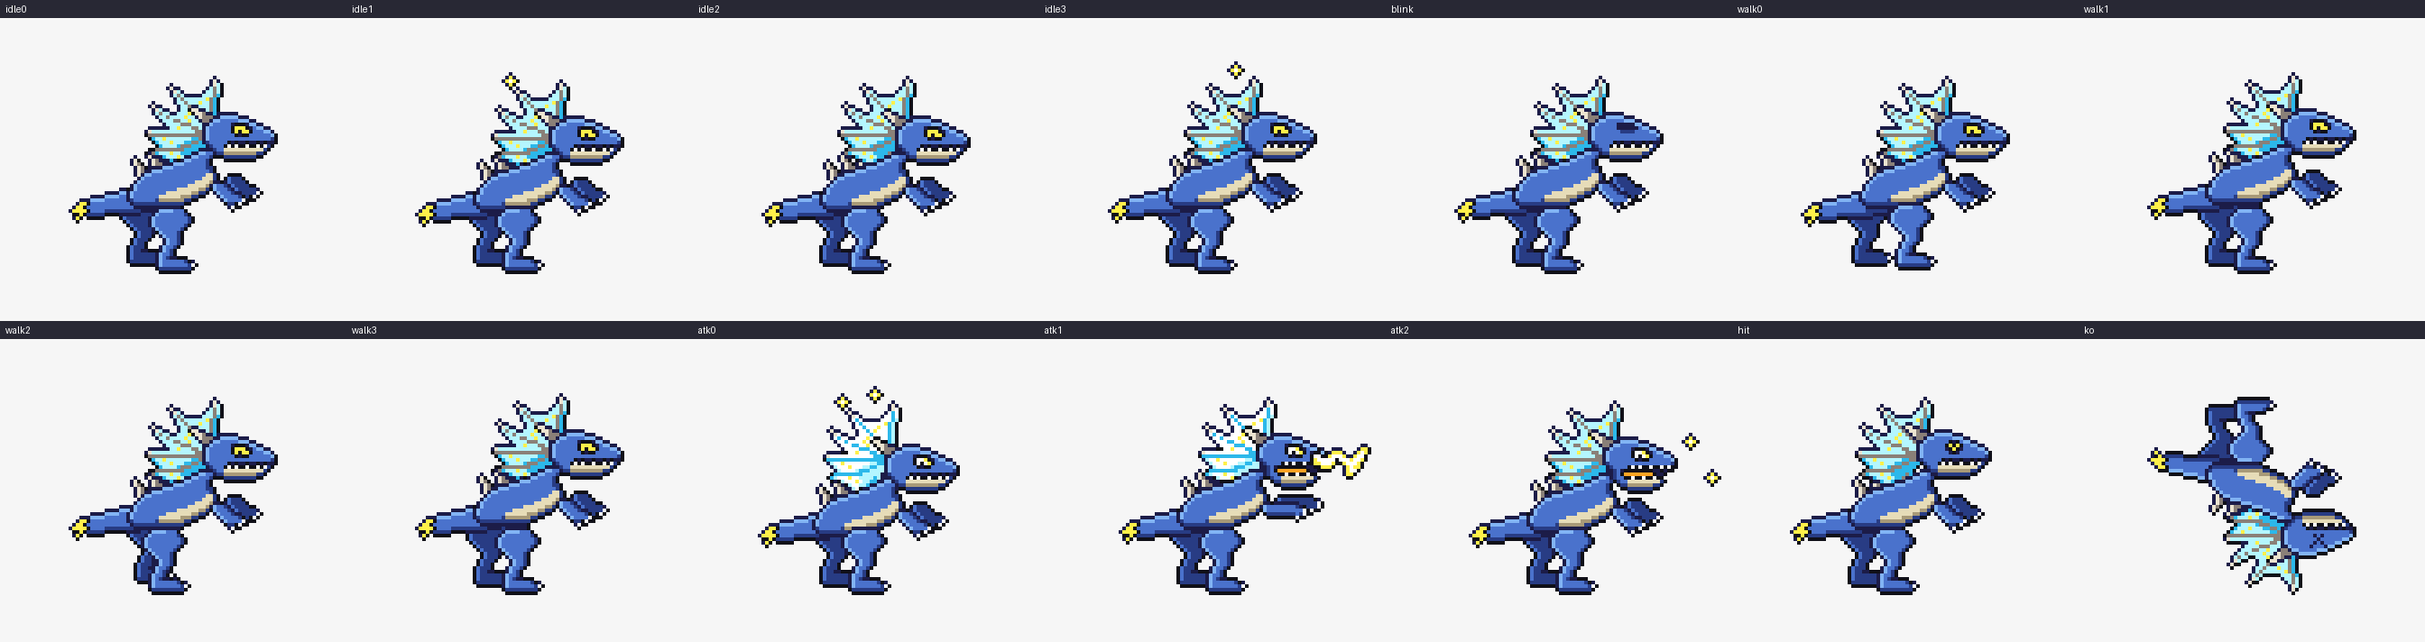
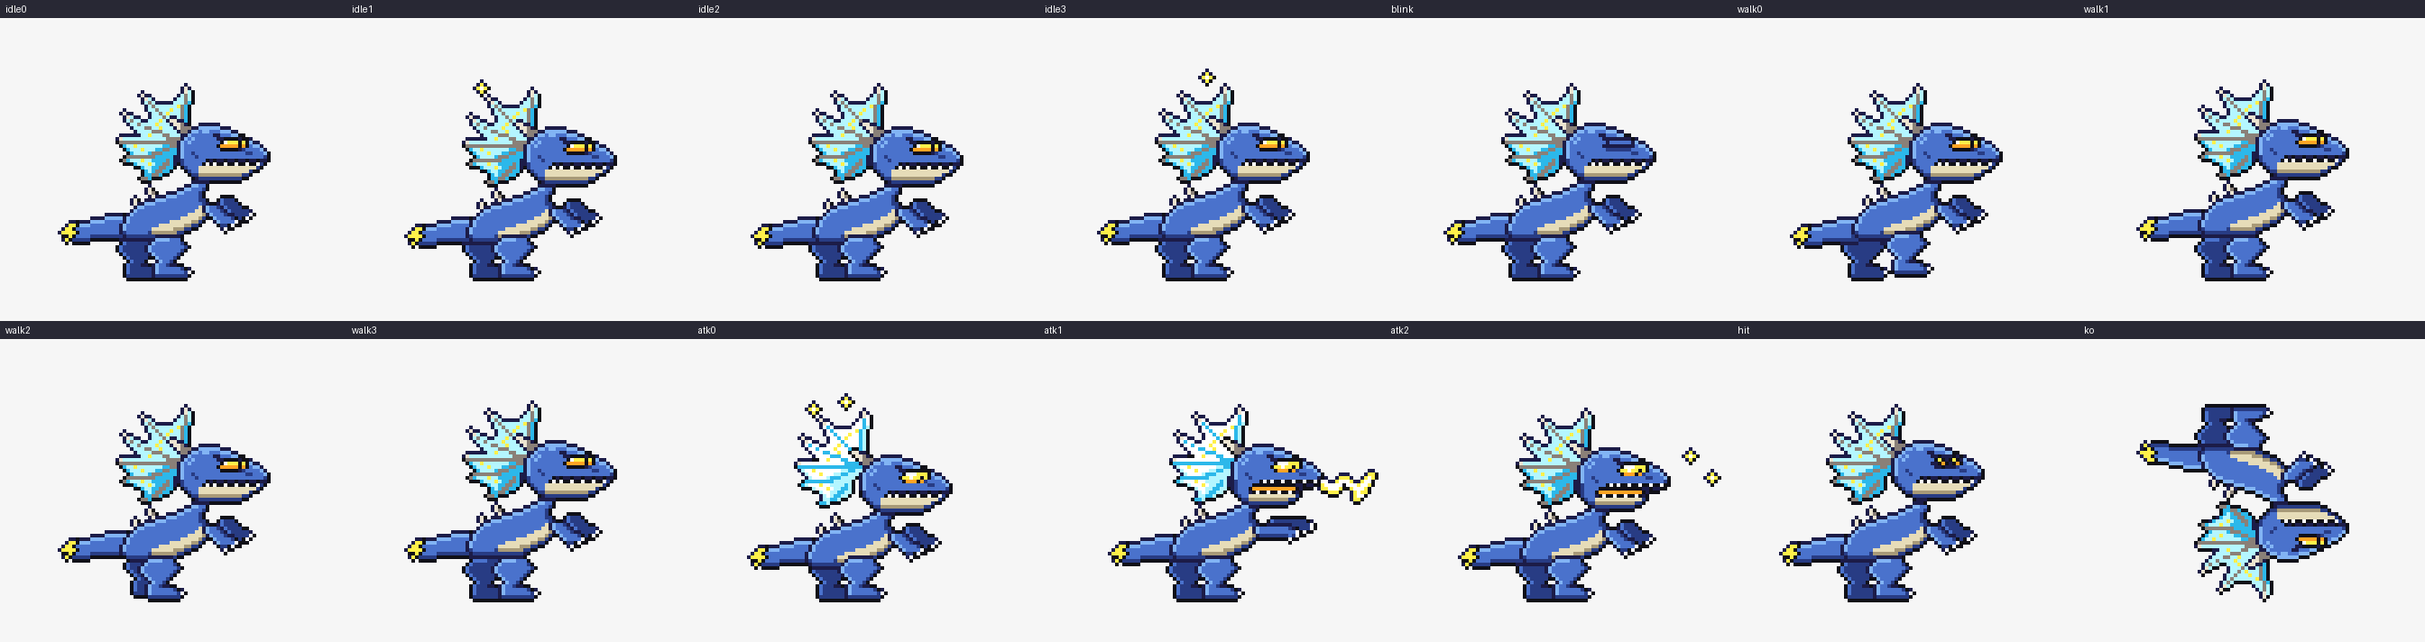
デフォルメ化・多色の 目・手足の つなぎ直し（ツノヒメ〜ドクエイ 7体）
Claude-Session: https://claude.ai/code/session_01J9mYv3PRYW1GKv9GU2f7rQ

diff --git a/tools/monsters/raierimaki/mon.py b/tools/monsters/raierimaki/mon.py
@@ -1,4 +1,4 @@
-# ライエリマキ（でんき・ドラゴン × エリマキトカゲ）手打ち GBA風
+# ライエリマキ（でんき・ドラゴン × エリマキトカゲ）手打ち GBA風・デフォルメ（2〜3頭身：大きな 頭と えりまき、胴は 小さく、足は 短く 太く）
 from pix import outline
 META = dict(id='raierimaki', name='ライエリマキ', types=['elec', 'dragon'], base='エリマキトカゲ', size='M')
 PAL = {
@@ -21,39 +21,49 @@ def place(parts, W=40, H=40):
                 if c != '.': g[dy + j][dx + i] = c
     return [''.join(r) for r in g]
 
-HEAD = [
-    "....AAAAA..........",
-    "..AABBBBBAAA.......",
-    ".ABBBBBBBBBBAA.....",
-    "ABBBBBBBBBBBBBAA...",
-    "ABBBBBBBBBBBBBBBAA.",
-    "ABBBBBBBBBBBBBBBBBA",
-    "ABBBBBBBBBBBBBBBBBC",
-    "CBBBBBkkkkkkkkkkkkk",
-    ".CBBBkwkwkkwkkwkwC.",
-    "..CBBEEEEEEEEEEEC..",
-    "...CCFFFFFFFFFCC...",
-    ".....CCCCCCCCC.....",
+HEAD_T = [
+    ".....AAAAAA.............",
+    "...AABBBBBBAAA..........",
+    "..ABBBBBBBBBBBAA........",
+    ".ABBBBBBBBBBBBBBAA......",
+    "ABBBBBBBBBBBBBBBBBAA....",
+    "ABBBBBBBBBBBBBBBBBBBAA..",
+    "ABBBBBBBBBBBBBBBBBBBBBA.",
+    "ABBBBBBBBBBBBBBBBBBBBBBA",
+    "ABBBBBBBBBBBBBBBBBBBBBBC",
 ]
-HEAD_OPEN = [
-    "....AAAAA..........",
-    "..AABBBBBAAA.......",
-    ".ABBBBBBBBBBAA.....",
-    "ABBBBBBBBBBBBBAA...",
-    "ABBBBBBBBBBBBBBBAA.",
-    "ABBBBBBBBBBBBBBBBBA",
-    "CBBBBBBBBBBBBBBBBBC",
-    ".CBBBBkwkwkkwkkwkwk",
-    "..CBkkkkkkkkkkkkk..",
-    "..CBkOOOOOOOOk.....",
-    "..CBBkkwkkwkkwk....",
-    "...CBBEEEEEEEEEC...",
-    "....CCFFFFFFFCC....",
-    "......CCCCCCC......",
+HEAD_SHUT = [
+    "CBBBBBBkkkkkkkkkkkkkkkkk",
+    "CBBBBBkwkwkkwkkwkkwkkwC.",
+    ".CBBBEEEEEEEEEEEEEEEEC..",
+    "..CBBEEEEEEEEEEEEEEC....",
+    "...CCFFFFFFFFFFFFCC.....",
+    ".....CCCCCCCCCCCC.......",
 ]
-EYE = ['kkkkk.', 'kYYYkk', 'kYkYYk', '.kkkk.']
-EYE_ALT = {'blink': ['kkkkk.', 'kkkkkk', '.CCCC.', '......'], 'hit': ['.kkk..', 'kYkYk.', 'kkYkk.', '.kkk..'],
-           'atk0|atk1|atk2': ['kkkkk.', 'kwwYkk', 'kwkwYk', '.kkkk.'], 'ko': ['k...k.', '.k.k..', '..k...', '.k.k..']}
+HEAD_GAPE = [
+    "CBBBBBBkwkwkkwkkwkkwkkwk",
+    "CBBBBkkkkkkkkkkkkkkkkk..",
+    "CBBBkOOOOOOOOOOOOk......",
+    "CBBBkkwkkwkkwkkwkk......",
+    ".CBBEEEEEEEEEEEEEC......",
+    "..CCFFFFFFFFFFFCC.......",
+    "....CCCCCCCCCCC.........",
+]
+EYES = {
+    'open':  ['kk........', '.kkkkkkkk.', '..kwYYYkYk', '.kOOOOOkOk', '..kkkkkkk.'],
+    'glow':  ['kk........', '.kkkkkkkk.', '..kwwwYYYk', '.kYYwYYkYk', '..kOOOkOk.'],
+    'blink': ['kk........', '.kkkkkkkk.', '..kBBBBBBk', '.kkkkkkkkk', '..CCCCCC..'],
+    'hit':   ['kk........', '.kkkkkkkk.', '..kYkkkYkk', '.kkkOkkkOk', '..kkkkkkk.'],
+    'ko':    ['..........', '..kYOOYk..', '..kOkkOk..', '..kkOOkk..', '..kOkkOk..'],
+}
+def head(eye='open', gape=False):
+    g = [list(r) for r in HEAD_T + (HEAD_GAPE if gape else HEAD_SHUT)]
+    for j, r in enumerate(EYES[eye]):
+        for i, c in enumerate(r):
+            if c != '.': g[2 + j][9 + i] = c
+    for (x, y) in ((6, 1), (7, 1), (3, 3), (2, 4)): g[y][x] = 'A'
+    for (x, y) in ((3, 7), (4, 8), (17, 6), (18, 7), (19, 7)): g[y][x] = 'C'
+    return outline([''.join(r) for r in g])
 HORN = ['GG......', '.GGH....', '..GHHH..', '...HHHH.', '....HHH.']
 # えりまき：骨の すじ（G/H）の あいだに でんきの 膜（W/V）、いなずまの もよう（Y）
 FRILL = [
@@ -116,17 +126,11 @@ LEG = [
     "..AAAABBB...",
     ".ABBBBBBBC..",
     "ABBBBBBBBBC.",
-    "ABBBBBBBBBC.",
     "ABBBBBBBBC..",
     ".ABBBBBBC...",
     "..ABBBBC....",
-    "...ABBBC....",
-    "....ABBC....",
-    "....ABBC....",
     "...ABBC.....",
-    "...ABC......",
     "..ABBC......",
-    "..ABC.......",
     "..ABBBBBBC..",
     "..ABBBBBBBCw",
     "..CCCCCCCCC.",
@@ -157,29 +161,26 @@ SPARK = ['..k..', '.kYk.', 'kYwYk', '.kYk.', '..k..']
 
 def base():
     return [
-        dict(n='legB', g='legB', x=17, y=38, rows=outline(dk(LEG))),
-        dict(n='armB', g='armB', x=46, y=31, rows=outline(dk(ARM)), alt={'atk1': outline(dk(ARM_STRIKE))}),
-        dict(n='tail', g='tail', x=6, y=35, rows=outline(TAIL)),
-        dict(n='bolt', g='tail', x=3, y=38, rows=outline(BOLT)),
-        dict(n='sp0', g='body', x=20, y=26, rows=outline(SPIKE)),
-        dict(n='sp1', g='body', x=24, y=24, rows=outline(SPIKE)),
-        dict(n='sp2', g='body', x=28, y=22, rows=outline(SPIKE)),
-        dict(n='sp3', g='body', x=32, y=21, rows=outline(SPIKE)),
-        dict(n='frill', g='frill', x=24, y=4, rows=outline(FRILL), alt={'atk0|atk1': outline([r.replace('W', 'w').replace('V', 'W').replace('H', 'V') for r in FRILL])}),
-        dict(n='body', g='body', x=19, y=24, rows=outline(BODY)),
-        dict(n='legA', g='legA', x=25, y=40, rows=outline(LEG)),
-        dict(n='horn', g='head', x=36, y=12, rows=outline(HORN)),
-        dict(n='head', g='head', x=40, y=14, rows=outline(HEAD), alt={'atk1|atk2': outline(HEAD_OPEN)}),
-        dict(n='eye', g='head', x=48, y=17, rows=EYE, alt=EYE_ALT),
-        dict(n='armF', g='armF', x=42, y=33, rows=outline(ARM), alt={'atk1': outline(ARM_STRIKE)}),
+        dict(n='legB', g='legB', x=16, y=48, rows=outline(dk(LEG))),
+        dict(n='armB', g='armB', x=44, y=37, rows=outline(dk(ARM)), alt={'atk1': outline(dk(ARM_STRIKE))}),
+        dict(n='tail', g='tail', x=2, y=42, rows=outline(TAIL)),
+        dict(n='bolt', g='tail', x=0, y=44, rows=outline(BOLT)),
+        dict(n='sp0', g='body', x=20, y=37, rows=outline(SPIKE)),
+        dict(n='sp1', g='body', x=24, y=34, rows=outline(SPIKE)),
+        dict(n='frill', g='frill', x=16, y=6, rows=outline(FRILL), alt={'atk0|atk1': outline([r.replace('W', 'w').replace('V', 'W').replace('H', 'V') for r in FRILL])}),
+        dict(n='body', g='body', x=17, y=33, rows=outline(BODY)),
+        dict(n='legA', g='legA', x=24, y=48, rows=outline(LEG)),
+        dict(n='horn', g='head', x=30, y=15, rows=outline(HORN)),
+        dict(n='head', g='head', x=33, y=17, rows=head(), alt={'blink': head('blink'), 'hit': head('hit'), 'atk0': head('glow'), 'atk1|atk2': head('glow', True)}),
+        dict(n='armF', g='armF', x=40, y=39, rows=outline(ARM), alt={'atk1': outline(ARM_STRIKE)}),
     ]
 def fx():
     return [
-        dict(n='zap', g='root', x=56, y=17, rows=LIGHTNING, only='atk1'),
-        dict(n='sp1', g='root', x=62, y=14, rows=SPARK, only='atk2'),
+        dict(n='zap', g='root', x=58, y=24, rows=LIGHTNING, only='atk1'),
+        dict(n='sp1', g='root', x=62, y=18, rows=SPARK, only='atk2'),
         dict(n='sp2', g='root', x=68, y=24, rows=SPARK, only='atk2'),
-        dict(n='spi', g='frill', x=27, y=2, rows=SPARK, only='idle1|atk0'),
-        dict(n='spi2', g='frill', x=36, y=0, rows=SPARK, only='idle3|atk0'),
+        dict(n='spi', g='frill', x=19, y=4, rows=SPARK, only='idle1|atk0'),
+        dict(n='spi2', g='frill', x=28, y=2, rows=SPARK, only='idle3|atk0'),
     ]
 def layers():
     return base() + fx()

diff --git a/tools/monsters/choryu/SETTEI.md b/tools/monsters/choryu/SETTEI.md
@@ -6,19 +6,22 @@
 |---|---|
 | タイプ | フェアリー ／ ドラゴン |
 | もとの 生き物 | 蝶の 竜（ヘビの ような 竜 ＋ アゲハチョウ） |
-| 分類 | りんぷんりゅう モンスター（約60×61） |
+| 分類 | りんぷんりゅう モンスター（約60×61（翅を ふくむ）） |
 | 性格 | 気位が 高く 気まぐれ。花畑に 近づく ものを 許さず、きらめく 鱗粉の 息で 追いはらう |
 | すみか | 霧の 晴れない 高原の 花畑。朝日の 中で 翅を 広げて 光を あびる |
 
 ## 見た目
-- こい 赤むらさきの うろこの 細長い 体を S字に くねらせて 飛ぶ（頭・首・胴・尾が はっきり 分かる）。腹は 細い 骨色の 板、背には 後ろ向きの 骨の とげ
+- **デフォルメ（2〜3頭身）**：頭を 大きく（くさび形の 竜の 頭）、胴は 短く 太く まとめる。見せ所の 蝶の 翅と 尾の 刃は 大きい まま。翅の 付け根は 背中に 食いこむ
+- **目**：目は 白い 光＋金 2段（明・暗）＋たての ひとみ。黒い まゆの ひさしと 下まぶたで かこむ
+- **はなれた パーツ**：まわりの 鱗粉の きらめき・鱗粉の 息は はなれているのが 意図的（手足・首・尾・翼は 体に 食いこませて つなぐ）
+- こい 赤むらさきの うろこの 体（デフォルメで 短く 太い）を S字に くねらせて 飛ぶ（頭・首・胴・尾が はっきり 分かる）。腹は 細い 骨色の 板、背には 後ろ向きの 骨の とげ
 - 背中に アゲハチョウの ような 翅（手前と 奥の 2枚、体の うしろ）。黒い 翅脈で 区切られた 青い ステンドグラスの 模様、ふちは 黒に 水色の 点、後翅に にらむ 赤い 目玉もようと 長い 燕尾（フェアリーの しるし）
-- 頭は 長い くさび形の 竜の 頭。黒い まゆの 下に 金の つり目と 赤い たての ひとみ、口に 白い 牙。額から 後ろへ 大きく そる 骨の つの 2本
+- 頭は 長い くさび形の 竜の 頭。黒い まゆの 下に 金の つり目と たての ひとみ、口に 白い 牙。額から 後ろへ 大きく そる 骨の つの 2本
 - 尾の 先は 青い 花びらの 刃（やりの 穂先の 形）
-- 小さな 前足に 白い 爪
+- 胸から 生える 小さな 前足に 白い 爪
 
-## 色（GBA風・16色以内 → 15色）
-輪郭 2（黒／こい 紫）・うろこ 3（赤むらさき）・腹 2（骨色）・翅 3（青）・金（目）・赤（ひとみ・目玉もよう）・白・骨 2（つの・とげ）
+## 色（GBA風・16色以内 → 16色）
+輪郭 2（黒／こい 紫）・うろこ 3（赤むらさき）・腹 2（骨色）・翅 3（青）・金 2（目・明／暗）・赤（ひとみ・目玉もよう）・白・骨 2（つの・とげ）
 
 ## 動き
 - 待機：翅を ゆっくり 上下させて ただよう。まわりに 鱗粉が きらめく

diff --git a/tools/monsters/dokuei/SETTEI.md b/tools/monsters/dokuei/SETTEI.md
@@ -6,19 +6,22 @@
 |---|---|
 | タイプ | どく ／ みず |
 | もとの 生き物 | エイ（アカエイ） |
-| 分類 | どくばり モンスター（第1形態・約56×43） |
+| 分類 | どくばり モンスター（第1形態・約62×43） |
 | 性格 | 海底の 砂に ひそんで 待ちぶせる。ふまれると 尾を さそりの ように 振り上げ、毒針で 何度も 突く |
 | すみか | 浅い 海の 砂地や、毒の 沼と つながる 入り江 |
 
 ## 見た目
-- 右前へ とがった やじりの 形の 平たい 体（3/4 上から 見る）。奥の つばさは 上、手前の つばさは 下で、裏の 白い ふちが 見える
+- **デフォルメ（2〜3頭身）**：エイの 前に 大きな 頭（前へ つき出た 頭びれ・つり目・牙の 口）を つけ、つばさは 小さく まとめる。頭は つばさに 食いこみ、境めは 輪郭で なく 影の 線。毒針の 尾は 大きい まま
+- **目**：目は 白い 光＋金 2段（明・暗）＋たての ひとみ。黒い まゆの ひさしと 下まぶたで かこむ（手前は 大きく、奥は 小さく）
+- **はなれた パーツ**：毒の しずく・毒しぶき・砂けむりは はなれているのが 意図的（手足・首・尾・翼は 体に 食いこませて つなぐ）
+- やじりの 形の 平たい 体（3/4 上から 見る）の 前に 大きな 頭。奥の つばさは 上、手前の つばさは 下で、裏の 白い ふちが 見える
 - 背は 暗い 青緑。つばさに 毒の ふくろが 赤紫に 光って 並ぶ（どくタイプ）
-- 背骨の 稜線が 光り、先の 方に 金色の つり目が 突き出る
+- 背骨の 稜線が 光り、頭の 上に 金色の つり目と 毒の いぼ。下に 牙の ならぶ 口
 - 長い 尾は さそりの ように 上へ 反り返り、先に ぎざぎざの 返しの ついた 骨の 毒針。針先から 毒が したたる
 - 海底すれすれを すべり、砂けむりと 泡を 立てる（みずタイプ）
 
-## 色（GBA風・16色以内 → 13色）
-輪郭 2（黒／濃い紫紺）・背 3（青緑）・裏の 白・毒 3（桃・赤紫・暗紫）・目（金）・骨 2（毒針）・泡（水色）
+## 色（GBA風・16色以内 → 14色）
+輪郭 2（黒／濃い紫紺）・背 3（青緑）・裏の 白・毒 3（桃・赤紫・暗紫）・目 2（金・明／暗）・骨 2（毒針）・泡（水色）
 
 ## 動き
 - 待機：つばさの 3つの 区切りが 順に 1ドット 波うち、毒針から 毒が したたる

diff --git a/tools/monsters/tsunohime/SETTEI.md b/tools/monsters/tsunohime/SETTEI.md
@@ -6,20 +6,23 @@
 |---|---|
 | タイプ | フェアリー ／ エスパー |
 | もとの 生き物 | ユニコーン |
-| 分類 | けっしょうやり モンスター（最終形態・約61×60） |
+| 分類 | けっしょうやり モンスター（最終形態・約58×54） |
 | 性格 | ほこり高く、決して 背に 人を 乗せない。みとめた 相手とだけ 一騎うちを する |
 | すみか | 夜の 高原に ある 水晶の 谷。月の 光を 角に ためる |
 
 ## 見た目
-- 夜空色（あい色）の 大きな 戦馬。首を 弓なりに まげ、深い 胸を はり、奥の 前足を 上げて ふみ鳴らす 姿。胸に 金の むないた（水色の 宝石と 前へ つき出た 結晶の とげ）
+- **デフォルメ（2〜3頭身）**：頭と 結晶の やり（角）を 大きく、馬体は 小さく 丸く、足は 短く 太く（頭の 高さ ≒ 全体の 4割）。首は 短く、頭は 胸の 上に のる
+- **目**：目は 白い 光＋水色 2段（明・暗）＋たての ひとみ。黒い まゆの 線と 下まぶたで かこむ
+- **はなれた パーツ**：まわりに うかぶ 結晶の かけら（念力）と 角の 先の 光は はなれているのが 意図的（手足・首・尾・翼は 体に 食いこませて つなぐ）
+- 夜空色（あい色）の 戦馬（デフォルメで 小さく 丸い 馬体）。胸を はって 頭を 高く かまえる。胸に 金の むないた（水色の 宝石と 前へ つき出た 結晶の とげ）
 - たてがみは 首の いただきに そって 重なる ピンクの 結晶の 房。後ろへ 流れるように なびく。しっぽも 結晶の たば
 - 額から 前へ つき出す 角は ねじれた 結晶の やり（らせんの きざみ）。鼻すじは 金の 面よろい
 - 目は 水色に 光る つり目（黒い まゆの 線の 下）。口には 小さな 牙
 - 足は ひざ・飛節（かかと）が はっきりした 戦馬の 足。ひづめは 結晶、足首に 金の わ
 - まわりに 念力で うかぶ 結晶の かけら（エスパー）
 
-## 色（GBA風・16色以内 → 13色）
-輪郭 2（黒／こい あい色）・体 3・結晶 3（白ピンク／ピンク／赤紫）・金 3・目の 水色・白
+## 色（GBA風・16色以内 → 14色）
+輪郭 2（黒／こい あい色）・体 3・結晶 3（白ピンク／ピンク／赤紫）・金 3・目の 水色 2（明・暗）・白
 
 ## 動き
 - 待機：頭が 1ドット 上下、まわりの 結晶の かけらが ふわふわ 上下

diff --git a/tools/monsters/nue/SETTEI.md b/tools/monsters/nue/SETTEI.md
@@ -6,19 +6,22 @@
 |---|---|
 | タイプ | ノーマル ／ あく |
 | もとの 生き物 | ぬえ（妖怪：猿の 顔・虎の 体・蛇の 尾） |
-| 分類 | よるなき モンスター（最終形態・約60×55） |
+| 分類 | よるなき モンスター（最終形態・約56×52） |
 | 性格 | ずるがしこく 用心ぶかい。夜に 不気味な 声で なき、まよった 者を 黒い 雲の 中へ さそう |
 | すみか | 山おくの 古い 社（やしろ）の 森。黒い 雲に 乗って 移動する |
 
 ## 見た目
-- 肩が 高く 腰の 低い 虎の 体。黄色い 毛に 太い 黒の しま
+- **デフォルメ（2〜3頭身）**：猿の 顔と 白い たてがみを 大きく（頭の 高さ ≒ 全体の 4割強）、虎の 胴は 短く 丸く、足は 短く 太く。蛇の しっぽは 長い まま、付け根は 腰に 食いこむ
+- **目**：目は 白い 光＋黄緑 2段（明・暗）＋たての ひとみ。太い まゆの でっぱりの 下。蛇の 目も 白い 光＋黄緑 2段＋ひとみ
+- **はなれた パーツ**：攻撃の ひっかき（光の すじ）は はなれているのが 意図的（手足・首・尾・翼は 体に 食いこませて つなぐ）
+- 肩が 高い 虎の 体（デフォルメで 短く 丸い）。黄色い 毛に 太い 黒の しま
 - 頭の まわりに 白い 毛の えり（たてがみ）が 後ろへ なびく
 - 顔は 赤い 猿の 顔。太い まゆの でっぱりの 下で 黄緑に 光る 目、長い 口に 上下の 牙
 - しっぽは 紫の うろこの 蛇。背中の 上で S字に 立ち上がり、自分の 頭と 光る 目、牙を もつ
 - 足もとに いつも 黒紫の 雲が わく（あく）
 
-## 色（GBA風・16色以内 → 14色）
-輪郭 2（黒／こげ茶）・虎 3・たてがみ 3・顔の 赤・蛇と 黒雲 3・目の 黄緑・白（牙・つめ）
+## 色（GBA風・16色以内 → 15色）
+輪郭 2（黒／こげ茶）・虎 3・たてがみ 3・顔の 赤・蛇と 黒雲 3・目の 黄緑 2（明・暗）・白（牙・つめ）
 
 ## 動き
 - 待機：体が 1ドット 上下、蛇の 頭が 別に ゆれる、黒い 雲が うごめく

diff --git a/tools/monsters/fukuroguma/SETTEI.md b/tools/monsters/fukuroguma/SETTEI.md
@@ -6,16 +6,19 @@
 |---|---|
 | タイプ | ノーマル ／ かくとう |
 | もとの 生き物 | オウルベア（フクロウの 頭の 熊） |
-| 分類 | ふくろうぐま モンスター（約52×58） |
+| 分類 | ふくろうぐま モンスター（約53×49） |
 | 性格 | 夜行性で なわばり意識が 強い。森に 入った 者を 首を 回して 見つけ、だまって なぐりかかる |
 | すみか | 深い 針葉樹の 森。倒木を 積んだ 巣に すむ |
 
 ## 見た目
+- **デフォルメ（2〜3頭身）**：ミミズクの 頭は そのまま、熊の 胴・うで・足を 短く 太く（頭の 高さ ≒ 全体の 4割強）。足の 付け根は 胴に 食いこむ
+- **目**：目は 白い 光＋虹彩 2段（黄・だいだい）＋たての ひとみ。V字の 黒い まゆの ひさしの 下
+- **はなれた パーツ**：攻撃の 衝撃・爪の 光は はなれているのが 意図的（手足・首・尾・翼は 体に 食いこませて つなぐ）
 - 熊の 巨体を 前かがみに 起こした 二足。肩は 大きく 盛り上がる
 - 頭は まるい ミミズクの 顔。羽角（はねの 角）が 2本、まゆの 黒い 羽が くちばしの 根もとへ V字に 下がり、その 下で だいだい色の 目が 光って にらむ
 - 大きく 太い かぎ形の くちばし（先が 下へ 曲がる）。首の 羽の えりまきは 肩の 熊の 毛に とけこむ。胸は 羽毛の もよう
 - 茶色の 毛は 光（左上）と 影（右下）で ぬり分け、毛の すじを 入れる
-- 手前の 前足は 地面近くまで とどく 長い うで、白い 大きな 爪。後ろの 前足は 爪を ひろげて ふり上げる
+- 手前の 前足は 太い うで（デフォルメで 短め）、白い 大きな 爪。後ろの 前足は 爪を ひろげて ふり上げる
 - 手首に 赤い 拳闘の まき布（かくとうの しるし）
 
 ## 色（GBA風・16色以内 → 14色）

diff --git a/tools/monsters/karakurihime/SETTEI.md b/tools/monsters/karakurihime/SETTEI.md
@@ -6,11 +6,14 @@
 |---|---|
 | タイプ | フェアリー ／ はがね |
 | もとの 生き物 | からくり人形（ぜんまい 仕掛けの 姫人形） |
-| 分類 | まいおうぎ モンスター（約50×57） |
+| 分類 | まいおうぎ モンスター（約50×52） |
 | 性格 | 気まぐれで ざんこく。気に入った 相手の 前で 舞い、舞いの 終わりに 首を ねらう |
 | すみか | すたれた 芝居小屋や 古い 屋敷の 蔵。夜に だけ ぜんまいが 回りだす |
 
 ## 見た目
+- **デフォルメ（2〜3頭身）**：頭（髪・面）は そのまま、着物の たけと 袖を 短く して 2〜3頭身に。すその 下から 白い 足と げたが 見える
+- **目**：目は 白い 光＋桃色 2段（明・暗）＋たての ひとみ。つり上がった まぶたの 線と 赤い くまどりで かこむ
+- **はなれた パーツ**：まわりを 舞う 桜の はなびら・刃風は はなれているのが 意図的。背中の ぜんまいは 着物に さしこむ（手足・首・尾・翼は 体に 食いこませて つなぐ）
 - 白い 陶器の 面の 顔。目は 細い つり目で 桃色に 光り、目じりに 赤い くまどり。あごは 糸あやつりの ように 割れて、口を ひらくと 牙が 並ぶ
 - 黒うるしの 姫カットの 髪、まげと 金の かんざし
 - 着物は 桃〜赤紫、桜の もよう、金の 帯。すそは 床まで 広がり、下から げたが のぞく

diff --git a/tools/monsters/kibabeaver/SETTEI.md b/tools/monsters/kibabeaver/SETTEI.md
@@ -6,11 +6,14 @@
 |---|---|
 | タイプ | ノーマル ／ みず |
 | もとの 生き物 | ビーバー |
-| 分類 | のみば モンスター（第1形態・約54×31） |
+| 分類 | のみば モンスター（第1形態・約53×37） |
 | 性格 | がんこで 力じまん。川を せき止めた なわばりに 入る ものは、橋でも 船でも かじって しずめる |
 | すみか | 森の 川の 上流。自分で かじり たおした 大木で 巨大な ダムを つくる |
 
 ## 見た目
+- **デフォルメ（2〜3頭身）**：頭と のみの 歯は そのまま、胴を 小さく 短く（はばを 8割に）して 頭を 胴の 前上に のせる。足は 短く 太く、でも 見える 長さに
+- **目**：目は 白い 光＋水色 2段（明・暗）＋たての ひとみ。太い まゆと 下まぶたで かこむ
+- **はなれた パーツ**：しっぽの 水てき・攻撃の 大波・しぶきは はなれているのが 意図的（手足・首・尾・翼は 体に 食いこませて つなぐ）
 - まるく もり上がった 背中の 重い 体。赤茶の 毛は いつも ぬれて いて、背中に 水てきが 光る
 - 頭は 大きく、太い まゆの 下で 水色の 目が 光る つり目。ほおに 古い きずあと
 - 口から 下へ つき出た オレンジの のみの 歯。木も 鉄も けずる
